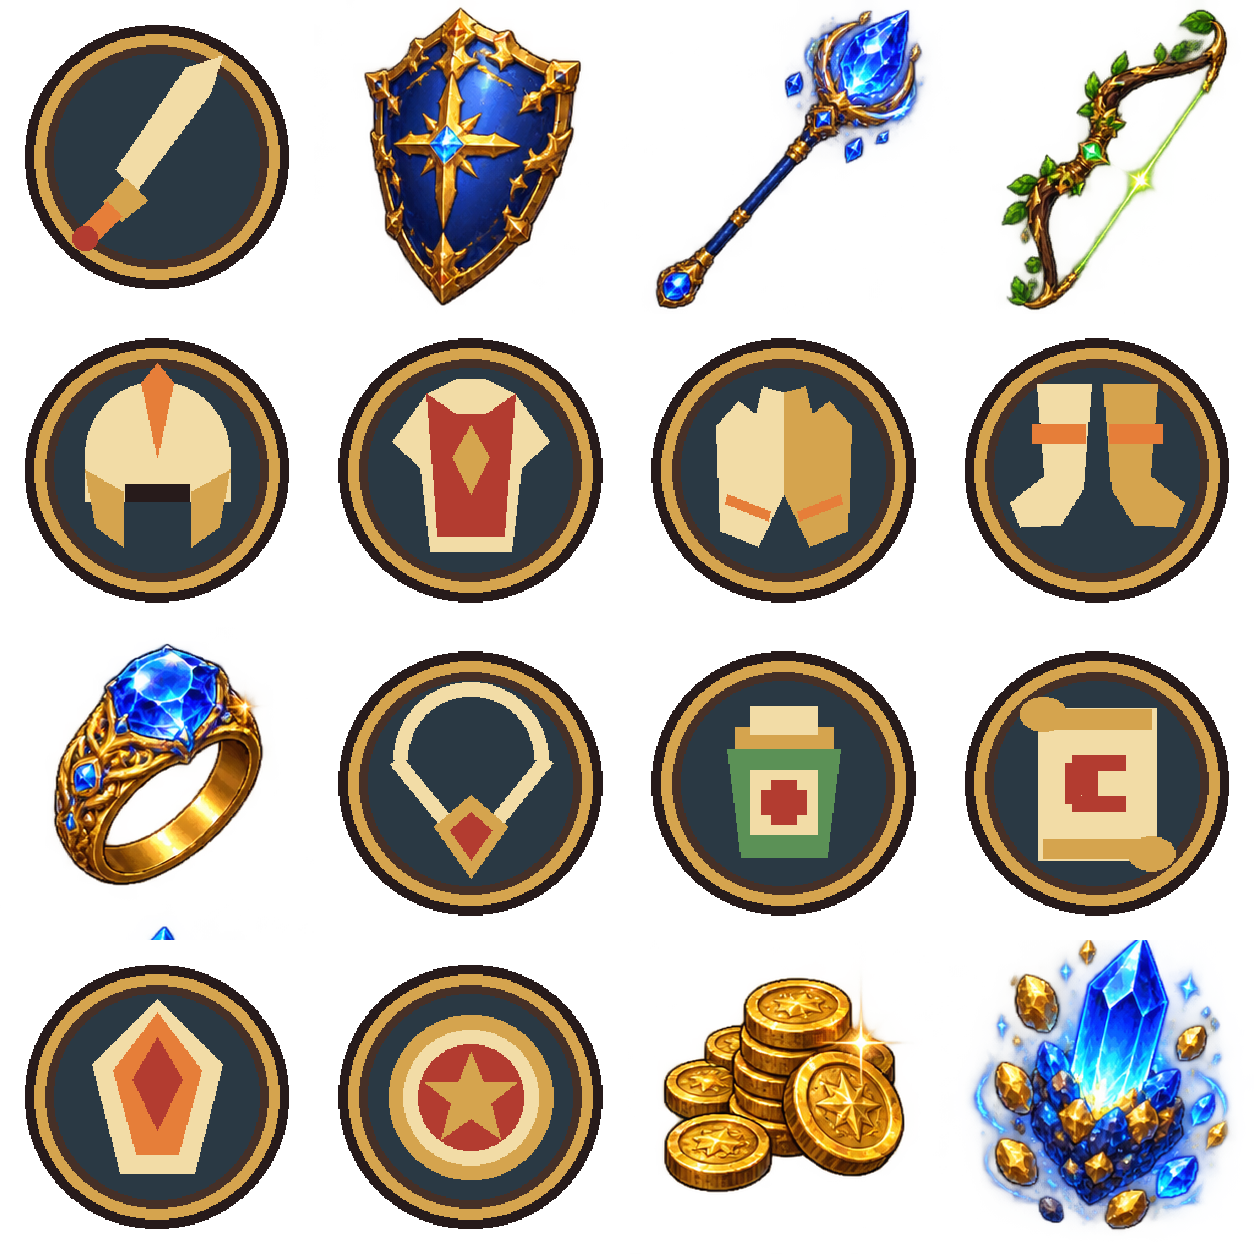
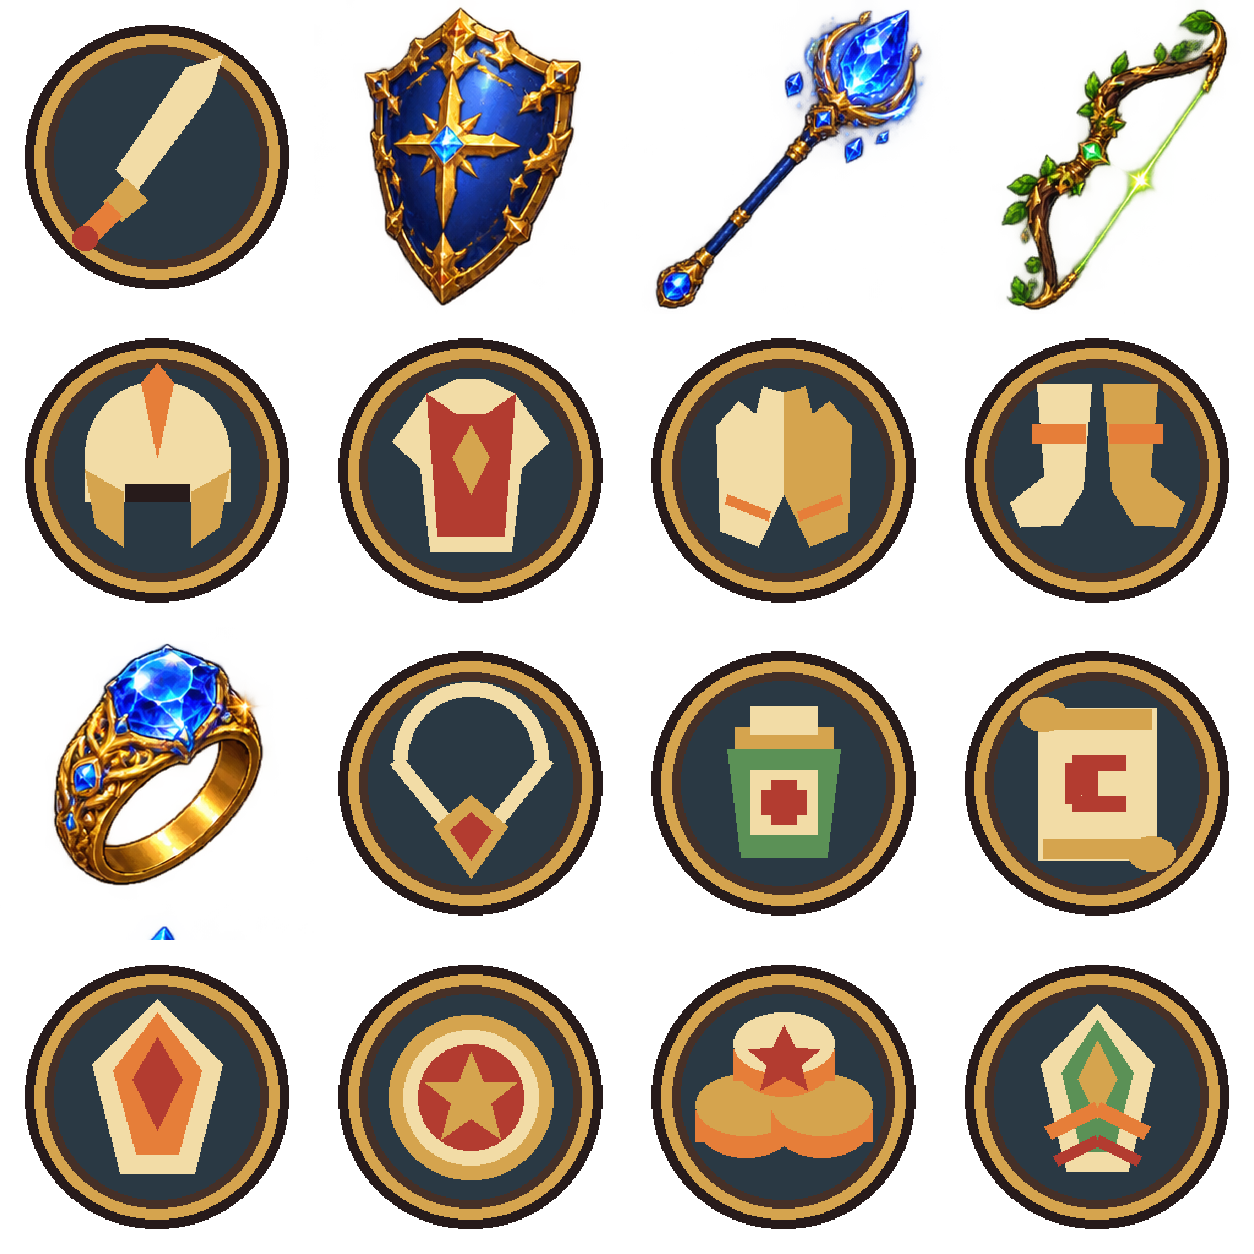
아트(게임): 재화 성장 아이콘 2종 ox-alpha 통일
실소비 gold와 advancement_material을 48px에서도 읽히는 공통 원형 배지 픽토그램으로 교체한다.
결정론·팔레트·셀 외부 불변 계약과 원본 백업을 함께 둔다.

Changed region(s): [[0.4976, 0.7464, 0.9952, 0.9952]]

diff --git a/projects/ashes-to-stars/art/gen_oxalpha_item_growth_icons.py b/projects/ashes-to-stars/art/gen_oxalpha_item_growth_icons.py
@@ -1,0 +1,97 @@
+#!/usr/bin/env python3
+"""재화·성장 아이템 2종을 작은 크기용 ox-alpha 픽토그램으로 통일한다."""
+from pathlib import Path
+
+from PIL import Image, ImageChops, ImageDraw
+
+HERE = Path(__file__).resolve().parent
+TARGET = HERE.parent / "unity/Assets/Resources/ui/item_atlas.png"
+BACKUP = HERE / "bak_pre_oxalpha_item_growth_icons.png"
+
+T = (0, 0, 0, 0)
+INK = (39, 27, 27, 255)
+SHADOW = (70, 48, 39, 255)
+GOLD = (213, 164, 78, 255)
+CREAM = (242, 220, 166, 255)
+AMBER = (230, 126, 57, 255)
+RED = (179, 60, 48, 255)
+SLATE = (42, 57, 68, 255)
+GREEN = (91, 145, 86, 255)
+PALETTE = {T, INK, SHADOW, GOLD, CREAM, AMBER, RED, SLATE, GREEN}
+CELLS = {"gold": (2, 3), "advancement_material": (3, 3)}
+
+
+def bounds(index):
+    cell = 1254 / 4
+    return round(index * cell), round((index + 1) * cell)
+
+
+def badge():
+    im = Image.new("RGBA", (256, 256), T)
+    d = ImageDraw.Draw(im)
+    d.ellipse((20, 20, 235, 235), fill=INK)
+    d.ellipse((28, 28, 227, 227), fill=GOLD)
+    d.ellipse((37, 37, 218, 218), fill=SHADOW)
+    d.ellipse((44, 44, 211, 211), fill=SLATE)
+    return im, d
+
+
+def gold(d):
+    # 겹친 세 금화와 강화 별: 보상 골드·강화석의 이중 소비 의미를 함께 보존한다.
+    d.ellipse((56, 118, 138, 177), fill=AMBER)
+    d.rectangle((56, 139, 138, 164), fill=AMBER)
+    d.ellipse((56, 109, 138, 159), fill=GOLD)
+    d.ellipse((118, 118, 200, 177), fill=AMBER)
+    d.rectangle((118, 139, 200, 164), fill=AMBER)
+    d.ellipse((118, 109, 200, 159), fill=GOLD)
+    d.ellipse((87, 68, 169, 127), fill=AMBER)
+    d.rectangle((87, 89, 169, 114), fill=AMBER)
+    d.ellipse((87, 59, 169, 109), fill=CREAM)
+    d.polygon(((128, 69), (137, 87), (157, 89), (142, 102),
+               (147, 122), (128, 111), (109, 122), (114, 102),
+               (99, 89), (119, 87)), fill=RED)
+
+
+def advancement_material(d):
+    # 위로 자라는 결정과 이중 갈매기로 전직·성장 재료를 작은 크기에서도 구분한다.
+    d.polygon(((128, 52), (174, 101), (153, 188), (103, 188), (82, 101)), fill=CREAM)
+    d.polygon(((128, 65), (157, 108), (141, 172), (115, 172), (99, 108)), fill=GREEN)
+    d.polygon(((128, 82), (144, 113), (128, 145), (112, 113)), fill=GOLD)
+    d.line((88, 157, 128, 137, 168, 157), fill=AMBER, width=13)
+    d.line((94, 180, 128, 163, 162, 180), fill=RED, width=11)
+
+
+DRAW = {"gold": gold, "advancement_material": advancement_material}
+
+
+def make():
+    current = Image.open(TARGET).convert("RGBA")
+    assert current.size == (1254, 1254), current.size
+    if not BACKUP.exists():
+        current.save(BACKUP, optimize=True)
+    source = Image.open(BACKUP).convert("RGBA")
+    before = source.copy()
+
+    for key, (col, row) in CELLS.items():
+        x0, x1 = bounds(col)
+        y0, y1 = bounds(row)
+        icon, draw = badge()
+        DRAW[key](draw)
+        assert set(icon.getdata()) <= PALETTE
+        assert icon.getbbox() == (20, 20, 236, 236)
+        icon = icon.resize((x1 - x0, y1 - y0), Image.Resampling.NEAREST)
+        source.paste(T, (x0, y0, x1, y1))
+        source.paste(icon, (x0, y0), icon)
+
+    changed = ImageChops.difference(source, before)
+    for col, row in CELLS.values():
+        x0, x1 = bounds(col)
+        y0, y1 = bounds(row)
+        changed.paste(T, (x0, y0, x1, y1))
+    assert changed.getbbox() is None
+    source.save(TARGET, optimize=True)
+    print(f"→ {TARGET.name}  {TARGET.stat().st_size}B")
+
+
+if __name__ == "__main__":
+    make()
